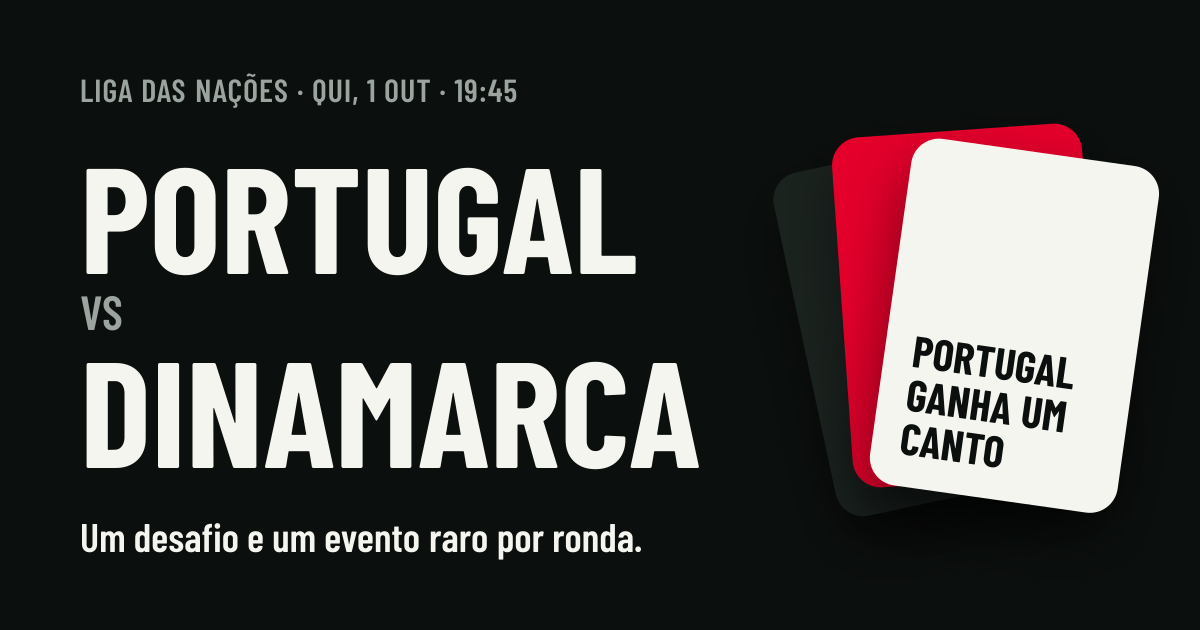
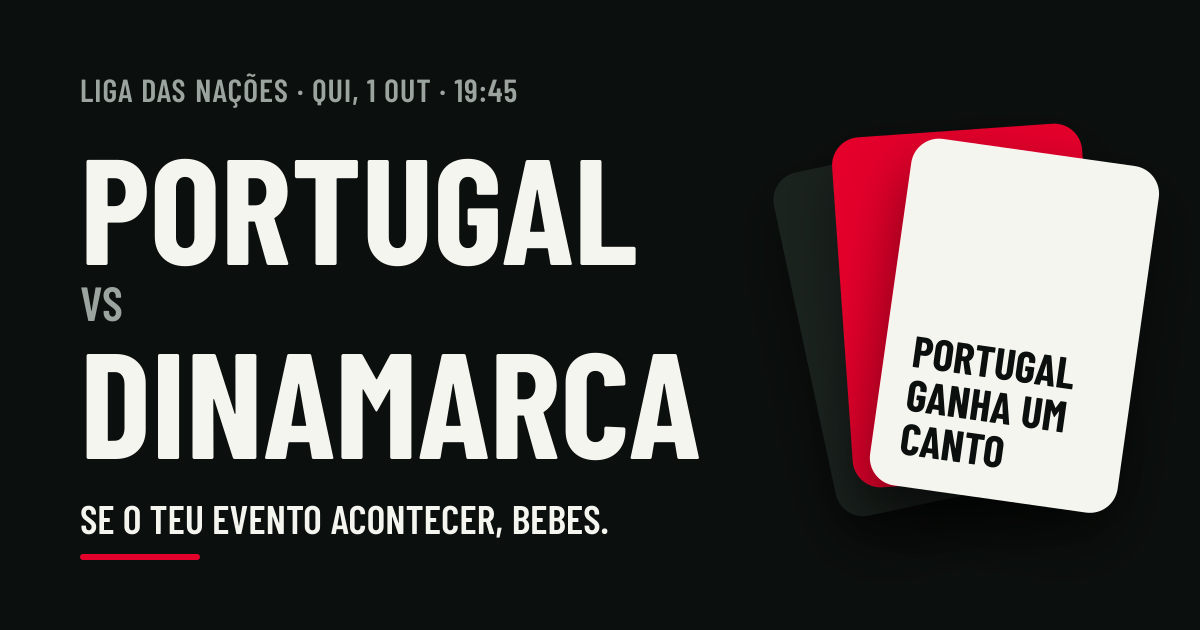
Cleaner desktop landing and new OG tagline
- Desktop landing: 3 preview events (same as mobile) + "+29 eventos por
  revelar" block only; smaller hero and tighter spacing; drop the extra
  desktop-only paragraph. Mobile unchanged.
- OG image: bottom line now "SE O TEU EVENTO ACONTECER, BEBES." with a
  short red underline; same layout otherwise.

diff --git a/components/ChallengePreview.tsx b/components/ChallengePreview.tsx
@@ -1,14 +1,14 @@
 import type { Match } from "@/types/game";
 import { teaserChallenges, timesLabel, totalChallenges } from "@/lib/game";
 
-const MOBILE_COUNT = 3;
+const PREVIEW_COUNT = 3;
 
 /**
- * Preview dos desafios principais da Ronda 1: 3 no mobile, 5 no desktop.
+ * Preview de 3 eventos principais da Ronda 1 (mobile e desktop).
  * Os eventos raros nunca aparecem aqui.
  */
 export function ChallengePreview({ match }: { match: Match }) {
-  const teaser = teaserChallenges(match);
+  const teaser = teaserChallenges(match).slice(0, PREVIEW_COUNT);
   const total = totalChallenges(match);
 
   return (
@@ -20,9 +20,7 @@ export function ChallengePreview({ match }: { match: Match }) {
         {teaser.map((c, i) => (
           <li
             key={c.id}
-            className={`rise items-center justify-between gap-4 rounded-xl bg-surface px-4 py-2.5 md:rounded-2xl md:px-5 md:py-4 ${
-              i < MOBILE_COUNT ? "flex" : "hidden md:flex"
-            }`}
+            className="rise flex items-center justify-between gap-4 rounded-xl bg-surface px-4 py-2.5 md:rounded-2xl md:px-5 md:py-4"
             style={{ animationDelay: `${i * 60}ms` }}
           >
             <span className="font-display text-lg leading-tight font-semibold uppercase md:text-2xl">{c.text}</span>
@@ -34,16 +32,15 @@ export function ChallengePreview({ match }: { match: Match }) {
         {/* Mobile: linha discreta, para não competir com o CTA */}
         <li
           className="rise rounded-xl border border-dashed border-line py-2 text-center font-display text-lg font-semibold text-muted uppercase md:hidden"
-          style={{ animationDelay: `${MOBILE_COUNT * 60}ms` }}
+          style={{ animationDelay: `${teaser.length * 60}ms` }}
         >
-          +{total - MOBILE_COUNT} eventos por revelar
+          +{total - teaser.length} eventos por revelar
         </li>
         <li
-          className="rise card-back hidden min-h-24 flex-col items-center justify-center rounded-2xl text-center text-white md:flex"
+          className="rise card-back hidden min-h-20 items-center justify-center rounded-2xl text-center text-white md:flex"
           style={{ animationDelay: `${teaser.length * 60}ms` }}
         >
           <span className="font-display text-2xl font-bold uppercase">+{total - teaser.length} eventos por revelar</span>
-          <span className="mt-0.5 text-sm text-white/80">Sorteados ronda a ronda, no dia do jogo</span>
         </li>
       </ul>
     </section>

diff --git a/components/MatchHero.tsx b/components/MatchHero.tsx
@@ -3,18 +3,18 @@ import { formatShortDay, formatTime } from "@/lib/dates";
 
 export function MatchHero({ match }: { match: Match }) {
   return (
-    <header className="pt-8 pb-5 md:pt-0 md:pb-8">
+    <header className="pt-8 pb-5 md:pt-0 md:pb-6">
       <p className="text-[13px] leading-snug font-medium tracking-wide text-muted uppercase md:text-base">
         <span className="text-accent">Jogo de bebida</span> · {match.competition}
         <br />
         {formatShortDay(match)} · {formatTime(match.kickoff)}
       </p>
-      <h1 className="mt-3 font-display leading-[0.9] font-bold uppercase md:mt-5">
-        <span className="text-[3rem] md:block md:text-[6.5rem] lg:text-[7.5rem]">{match.teamA}</span>
-        <span className="ml-2.5 text-xl font-semibold text-muted md:my-1 md:ml-0 md:block md:text-3xl">vs</span>
-        <span className="block text-[3rem] md:text-[6.5rem] lg:text-[7.5rem]">{match.teamB}</span>
+      <h1 className="mt-3 font-display leading-[0.9] font-bold uppercase md:mt-4">
+        <span className="text-[3rem] md:block md:text-[5rem] lg:text-[5.75rem]">{match.teamA}</span>
+        <span className="ml-2.5 text-xl font-semibold text-muted md:my-1 md:ml-0 md:block md:text-2xl">vs</span>
+        <span className="block text-[3rem] md:text-[5rem] lg:text-[5.75rem]">{match.teamB}</span>
       </h1>
-      <p className="mt-3 max-w-[21rem] text-base leading-snug text-ink/85 md:mt-6 md:max-w-md md:text-xl">
+      <p className="mt-3 max-w-[21rem] text-base leading-snug text-ink/85 md:mt-4 md:max-w-md md:text-lg">
         Cada pessoa recebe um evento principal e um evento raro. Se acontecer, bebes o valor de golos indicado.
       </p>
     </header>

diff --git a/components/LandingActions.tsx b/components/LandingActions.tsx
@@ -30,9 +30,6 @@ export function LandingActions({ match }: { match: Match }) {
           <div className="md:hidden">
             <ChallengePreview match={match} />
           </div>
-          <p className="hidden text-lg text-muted md:block">
-            Cria já o jogo e vê os desafios da Ronda 1. As outras rondas abrem durante o jogo.
-          </p>
         </>
       ) : (
         !inProgress && (
